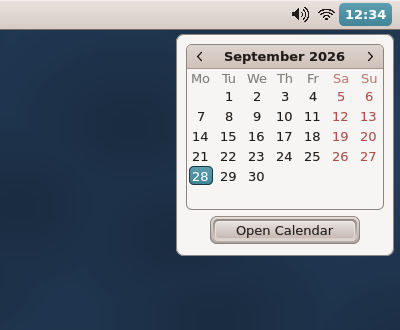
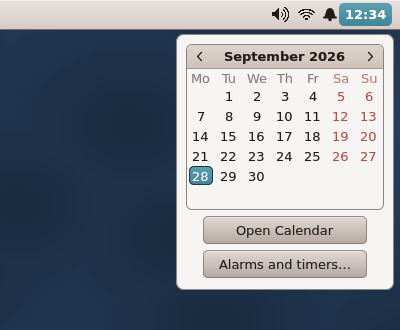
AutoDev round 6: S1 — the menu bar's bell and Alarms and timers… (the menu bar translated, English and French)
Claude-Session: https://claude.ai/code/session_01DvjGxTXhJuNry8i8kyXruM

Changed region(s): [[0.42, 0.6364, 0.99, 0.8788], [0.66, 0.0303, 0.84, 0.0606]]

diff --git a/user/Apps/menubar/main.cpp b/user/Apps/menubar/main.cpp
@@ -23,7 +23,13 @@
 // the File Viewer; "Disks..." opens the Disks app. The bar also says what happened through notifyd:
 // a stick connected, one that can be removed safely, one pulled out without an eject.
 //
-// A click on the time opens a calendar (the month; "Open Calendar" starts the Calendar app).
+// A click on the time opens a calendar (the month; "Open Calendar" starts the Calendar app; "Alarms and timers..."
+// opens the Clock on its Alarms tab -- when the Clock is on the card). A small bell left of the time says an alarm of
+// the Clock rings within 24 hours (SD:/apps/clock.app/alarms.txt read once a minute, through the Clock's own model,
+// Apps/clock/alarms.cpp -- AutoDev round 6, S1); a click on it opens the Clock's Alarms too.
+//
+// Its words are in the system's language (uikit/lang.h: TR, SD:/apps/menubar.app/lang/<code>.txt); the apps' names
+// and the windows' titles are theirs.
 //
 // The look: the modernised CDE (uikit/paint.h) -- a light bar in the theme's menu bar colour, the open title
 // in the accent, rounded drop-downs, anti-aliased on what lies below.
@@ -37,10 +43,13 @@
 // another title to switch, click an item to run it; press on a title + release on an
 // item works too.
 //
+#include <stdio.h>
 #include "appkit/appkit.h"
 #include "fontkit/uikitface.h"
 #include "uikit/uikit.h"
 #include "systemkit/systemkit.h"
+#include "Apps/clock/alarms.h"
+#include "Apps/clock/clocktime.h"
 
 using namespace uikit;
 
@@ -174,7 +183,7 @@ static void add_quit_menu (const char *app)
 	MenuDef &m = g_menus[g_nmenus++];
 	scopy (m.title, app, sizeof m.title); m.count = 0;
 	Item &q = m.items[m.count++];
-	q.id = MENU_QUIT; scopy (q.label, "Quit", sizeof q.label); scopy (q.key, "^Q", sizeof q.key); q.sep = false; q.sub = -1;
+	q.id = MENU_QUIT; scopy (q.label, TR ("Quit"), sizeof q.label); scopy (q.key, "^Q", sizeof q.key); q.sep = false; q.sub = -1;
 }
 
 // The system menu, always first: tools, the apps by category, the open windows, the end.
@@ -189,12 +198,14 @@ static void build_onyx_menu (MenuDef &m)
 		x.id = id; x.sep = id == -2; x.key[0] = '\0'; x.sub = sub;
 		scopy (x.label, l ? l : "", sizeof x.label);
 	};
-	add (ONYX_TERMINAL, "Terminal", -1); add (ONYX_CONTROL, "Control Panel", -1);
-	add (ONYX_FILES, "File Viewer", -1); add (ONYX_TASKS, "Task Manager", -1);
+	add (ONYX_TERMINAL, TR ("Terminal"), -1); add (ONYX_CONTROL, TR ("Control Panel"), -1);
+	add (ONYX_FILES, TR ("File Viewer"), -1); add (ONYX_TASKS, TR ("Task Manager"), -1);
 	add (-2, 0, -1);
 	// the categories: the usual ones first, then any other, "Other" last
 	g_nsubs = 0;
-	static const char *const order[] = { "Productivity", "Internet", "Graphics", "Programming", "Games", "BASIC", "Demos", "System", 0 };
+	static const char *const order[] = { TRN ("Productivity"), TRN ("Internet"), TRN ("Graphics"), TRN ("Programming"), TRN ("Games"), TRN ("BASIC"), TRN ("Demos"), TRN ("System"), 0 };
+	// TR: Other
+	// TR: Multimedia
 	char cats[MAXSUBS][20]; int nc = 0;
 	for (int i = 0; order[i]; i++) scopy (cats[nc++], order[i], 20);
 	for (int a = 0; a < g_napps && nc < MAXSUBS - 2; a++)
@@ -208,13 +219,13 @@ static void build_onyx_menu (MenuDef &m)
 	{
 		SubDef &sd = g_subs[g_nsubs]; sd.count = 0; sd.windows = false;
 		for (int a = 0; a < g_napps; a++) if (eq (g_apps[a].cat, cats[c])) sub_add (sd, g_apps[a].label, g_apps[a].name);
-		if (sd.count) add (ONYX_SUB, cats[c], g_nsubs++);
+		if (sd.count) add (ONYX_SUB, TR (cats[c]), g_nsubs++);	// (the category's name shown in the language; app.txt's kept)
 	}
 	add (-2, 0, -1);
 	SubDef &w = g_subs[g_nsubs]; w.count = 0; w.windows = true;
-	add (ONYX_SUB, "Open Windows", g_nsubs++);
+	add (ONYX_SUB, TR ("Open Windows"), g_nsubs++);
 	add (-2, 0, -1);
-	add (ONYX_SHUTDOWN, "Shut Down...", -1);
+	add (ONYX_SHUTDOWN, TR ("Shut Down..."), -1);
 }
 static void add_onyx_menu (void) { build_onyx_menu (g_menus[g_nmenus++]); }
 
@@ -295,7 +306,7 @@ static int sub_w (const SubDef &sd)
 {
 	int w = 140;
 	for (int i = 0; i < sd.count; i++) { int ww = uk_tw (sd.items[i].label) + 28; if (ww > w) w = ww; }
-	if (sd.count == 0) w = uk_tw ("(no open window)") + 28;
+	if (sd.count == 0) w = uk_tw (sd.windows ? TR ("(no open window)") : TR ("(empty)")) + 28;
 	return w;
 }
 static int sub_h (const SubDef &sd) { return 10 + (sd.count ? sd.count : 1) * (g_fh + 8); }
@@ -333,7 +344,8 @@ static int title_at (int x, int y)
 static int clk_w (void) { return uk_tw ("00:00", 2); }
 static int clk_x (void) { return g_sw - clk_w () - 14; }
 static bool on_clock (int x, int y) { return y >= 0 && y < BAR_H && x >= clk_x () - 6 && x < g_sw; }
-static int wifi_x (void) { return clk_x () - 27; }
+static int bell_w (void);
+static int wifi_x (void) { return clk_x () - 27 - bell_w (); }
 static int spk_x (void) { return wifi_x () - 26; }
 static bool on_wifi (int x, int y) { return y >= 0 && y < BAR_H && x >= wifi_x () - 3 && x < wifi_x () + 20; }
 static bool on_speaker (int x, int y) { return y >= 0 && y < BAR_H && x >= spk_x () - 3 && x < spk_x () + 19; }
@@ -430,18 +442,17 @@ static void draw_volume_box (void)
 {
 	int bx, by; vol_box (&bx, &by);
 	panel (bx, by, VW, VH);
-	uk_text_l (g_cv, bx + 14, by + 6, 24, "Volume", C_FIELD_TEXT, 2);
-	char v[8]; int n = 0;
-	if (g_mute) { const char *m = "Muted"; while (m[n]) { v[n] = m[n]; n++; } }
-	else { if (g_vol >= 10) { v[n++] = '1'; v[n++] = '0'; } else v[n++] = (char) ('0' + g_vol); }
-	v[n] = 0;
+	uk_text_l (g_cv, bx + 14, by + 6, 24, TR ("Volume"), C_FIELD_TEXT, 2);
+	char v[40]; int n = 0;
+	if (g_mute) scopy (v, TR ("Muted"), sizeof v);
+	else { if (g_vol >= 10) { v[n++] = '1'; v[n++] = '0'; } else v[n++] = (char) ('0' + g_vol); v[n] = 0; }
 	uk_text_l (g_cv, bx + VW - 14 - uk_tw (v), by + 6, 24, v, C_DIM);
 	int x0, x1, ty; vol_track (&x0, &x1, &ty);
 	int kx = x0 + (x1 - x0) * g_vol / 10;
 	for (int i = 0; i <= 10; i++) g_cv.fillRect (x0 + (x1 - x0) * i / 10, ty + 10, 1, 3, C_DIM);
 	uk_slider_mark (g_cv, x0 - 6, ty - 8, x1 - x0 + 12, 20, kx - x0 + 6, kx - 6, 12, g_mute ? UK_DISABLED : g_volDrag ? UK_PRESSED : UK_NORMAL);
 	uk_check_mark (g_cv, bx + 18, by + 65, 15, g_mute != 0, UK_NORMAL);
-	uk_text_l (g_cv, bx + 42, by + 65, 15, "Mute", C_FIELD_TEXT);
+	uk_text_l (g_cv, bx + 42, by + 65, 15, TR ("Mute"), C_FIELD_TEXT);
 }
 
 // ---- the calendar (a click on the time) ----------------------------------------------------------
@@ -452,27 +463,76 @@ public:
 	unsigned bgColor () override { return C_DROP; }
 };
 static CalCard *g_cal;
-static bool g_calOpen = false, g_calBtnHot = false, g_calBtnDown = false;
+static bool g_calOpen = false;
+static int g_calBtnHot = 0, g_calBtnDown = 0;		// the button pointed at / pressed: 1 Open Calendar, 2 Alarms and timers
+static bool g_calClock = false;				// the Clock is on the card: its button shown (read as the calendar opens)
 #define CALW	(CAL_W + 20)
-#define CALH	(CAL_H + 20 + 36)
+static int cal_h (void) { return CAL_H + 20 + 36 + (g_calClock ? 34 : 0); }
 static void cal_box (int *x, int *y) { *x = g_sw - CALW - 6; *y = BAR_H + 4; }
-static void cal_btn (int *x, int *y, int *w, int *h)
+static void cal_btn (int i, int *x, int *y, int *w, int *h)	// i: 1 Open Calendar, 2 Alarms and timers (under it)
 {
 	int bx, by; cal_box (&bx, &by);
-	*w = 150; *h = 28; *x = bx + (CALW - *w) / 2; *y = by + 10 + CAL_H + 6;
+	int tw = uk_tw (TR ("Open Calendar"));
+	if (g_calClock && uk_tw (TR ("Alarms and timers\xE2\x80\xA6")) > tw) tw = uk_tw (TR ("Alarms and timers\xE2\x80\xA6"));
+	*w = tw + 32 < 150 ? 150 : tw + 32 > CAL_W ? CAL_W : tw + 32; *h = 28;
+	*x = bx + (CALW - *w) / 2; *y = by + 10 + CAL_H + 6 + (i == 2 ? 34 : 0);
 }
-static bool in_cal_box (int x, int y) { int bx, by; cal_box (&bx, &by); return x >= bx && x < bx + CALW && y >= by && y < by + CALH; }
-static bool on_cal_btn (int x, int y) { int bx, by, bw, bh; cal_btn (&bx, &by, &bw, &bh); return x >= bx && x < bx + bw && y >= by && y < by + bh; }
+static bool in_cal_box (int x, int y) { int bx, by; cal_box (&bx, &by); return x >= bx && x < bx + CALW && y >= by && y < by + cal_h (); }
+static int on_cal_btn (int x, int y)			// -> 1, 2, 0 none
+{
+	for (int i = 1; i <= (g_calClock ? 2 : 1); i++)
+	{
+		int bx, by, bw, bh; cal_btn (i, &bx, &by, &bw, &bh);
+		if (x >= bx && x < bx + bw && y >= by && y < by + bh) return i;
+	}
+	return 0;
+}
 
 static void draw_calendar_box (void)
 {
 	int bx, by; cal_box (&bx, &by);
-	panel (bx, by, CALW, CALH);
+	panel (bx, by, CALW, cal_h ());
 	g_cal->draw ();
 	g_cv.putOther (g_cal->canvas, bx + 10, by + 10, false);
-	int x, y, w, h, lx, ly, lw, lh; cal_btn (&x, &y, &w, &h);
-	uk_framed (g_cv, x, y, w, h, C_BUTTON, g_calBtnDown ? UK_PRESSED : g_calBtnHot ? UK_HOT : UK_NORMAL, &lx, &ly, &lw, &lh);
-	uk_text_c (g_cv, lx, ly, lw, lh, "Open Calendar", C_BUTTON_TEXT);
+	for (int i = 1; i <= (g_calClock ? 2 : 1); i++)
+	{
+		int x, y, w, h, lx, ly, lw, lh; cal_btn (i, &x, &y, &w, &h);
+		uk_framed (g_cv, x, y, w, h, C_BUTTON, g_calBtnDown == i ? UK_PRESSED : g_calBtnHot == i ? UK_HOT : UK_NORMAL, &lx, &ly, &lw, &lh);
+		uk_text_c (g_cv, lx, ly, lw, lh, i == 1 ? TR ("Open Calendar") : TR ("Alarms and timers\xE2\x80\xA6"), C_BUTTON_TEXT);
+	}
+}
+static void open_clock_alarms (void) { lx_launch ("clock", "alarms"); }	// (a Clock running: told, and raised)
+
+// ---- the bell: an alarm of the Clock within 24 hours (S1) ------------------------------------------------------------
+static AlarmSet g_alarms;
+static bool g_bell = false;				// shown (left of the time)
+static void bell_poll (void)				// alarms.txt read again: once a minute, and when the calendar opens
+{
+	int y = 0, mo = 0, d = 0, h = 0, mi = 0;
+	bool real = kapi_get_datetime (&y, &mo, &d, &h, &mi, 0) == 1;
+	bool was = g_bell;
+	g_bell = false;
+	if (real && alarms_load (g_alarms, ALARMS_PATH) > 0)
+	{
+		long now = clk_minute (y, mo, d, h, mi), next = alarms_next (g_alarms, now, 0);
+		g_bell = next >= 0 && next - now <= 1440;
+	}
+	alarms_free (g_alarms);
+	if (g_bell != was) g_dirty = true;
+}
+static int bell_w (void) { return g_bell ? 20 : 0; }
+static int bell_x (void) { return clk_x () - 6 - 16; }
+static bool on_bell (int x, int y) { return g_bell && y >= 0 && y < BAR_H && x >= bell_x () - 2 && x < clk_x () - 6; }
+// A bell, 14 x 14 px at (x, y): its dome, its rim, its clapper (VPath, 1/16 px)
+static void draw_bell (int x, int y, unsigned c)
+{
+	VPath p;
+	p.circle (V (x + 7), V (y + 5), V (4));
+	int body[8] = { V (x + 3), V (y + 5), V (x + 11), V (y + 5), V (x + 12) + 8, V (y + 10), V (x + 1) + 8, V (y + 10) };
+	p.poly (body, 4);
+	p.rrect (V (x), V (y + 9) + 8, V (14), V (2), V (1));
+	p.circle (V (x + 7), V (y + 12) + 8, V (1) + 12);
+	p.fill (g_cv, c);
 }
 
 // ---- the USB sticks (kapi v93) ---------------------------------------------------------------------
@@ -552,31 +612,28 @@ static void usb_poll (void)
 		g_seen[k].gen = v.gen;
 		g_dirty = true;
 		char vn[12]; vname (v, vn);
-		char msg[160]; msg[0] = 0;
+		char msg[320]; msg[0] = 0;
 		char act[48]; act[0] = 0;
 		switch (v.state)
 		{
 		case KAPI_VST_MOUNTED:
 		{
 			char sz[24]; size_text (v.total, sz, sizeof sz);
-			cat (msg, sizeof msg, v.label[0] ? v.label : "A USB stick"); cat (msg, sizeof msg, " is connected as ");
-			cat (msg, sizeof msg, vn); cat (msg, sizeof msg, " ("); cat (msg, sizeof msg, sz); cat (msg, sizeof msg, ", ");
-			cat (msg, sizeof msg, v.type); cat (msg, sizeof msg, "). Click to open it.");
+			snprintf (msg, sizeof msg, TR ("%s is connected as %s (%s, %s). Click to open it."), v.label[0] ? v.label : TR ("A USB stick"), vn, sz, v.type);
 			cat (act, sizeof act, "fileviewer "); cat (act, sizeof act, vn); cat (act, sizeof act, "/");
 			break;
 		}
 		case KAPI_VST_EJECTED:
-			cat (msg, sizeof msg, vn); cat (msg, sizeof msg, " can be removed safely.");
+			snprintf (msg, sizeof msg, TR ("%s can be removed safely."), vn);
 			break;
 		case KAPI_VST_UNREADABLE:
-			cat (msg, sizeof msg, vn); cat (msg, sizeof msg, (v.flags & KAPI_VF_IOERR) ? " could not be read." : " has no FAT / exFAT file system. Click to format it.");
+			snprintf (msg, sizeof msg, (v.flags & KAPI_VF_IOERR) ? TR ("%s could not be read.") : TR ("%s has no FAT / exFAT file system. Click to format it."), vn);
 			if (!(v.flags & KAPI_VF_IOERR)) { cat (act, sizeof act, "disks "); cat (act, sizeof act, vn); }
 			break;
 		case KAPI_VST_REMOVED:
 			if (v.flags & KAPI_VF_UNSAFE)
 			{
-				cat (msg, sizeof msg, vn);
-				cat (msg, sizeof msg, " was removed without being ejected: what was being written to it may be lost.");
+				snprintf (msg, sizeof msg, TR ("%s was removed without being ejected: what was being written to it may be lost."), vn);
 			}
 			break;
 		}
@@ -664,28 +721,28 @@ static void draw_usb_box (void)
 		int ry = by + 5 + r * UROW;
 		if (r == g_usbHot) uk_hilite (g_cv, bx + 4, ry + 2, UW - 8 - 96, UROW - 4, 5, true);
 		char vn[12]; vname (v, vn);
-		char line[64]; line[0] = 0;
-		cat (line, sizeof line, vn); cat (line, sizeof line, "  "); cat (line, sizeof line, v.label[0] ? v.label : "USB stick");
+		char line[96]; line[0] = 0;
+		cat (line, sizeof line, vn); cat (line, sizeof line, "  "); cat (line, sizeof line, v.label[0] ? v.label : TR ("USB stick"));
 		unsigned ink = r == g_usbHot ? C_SEL_TEXT : C_FIELD_TEXT, dim = r == g_usbHot ? C_SEL_TEXT : C_DIM;
 		uk_text_l (g_cv, bx + 14, ry + 4, g_fh + 2, line, ink, 2);
-		char sub[80]; sub[0] = 0;
+		char sub[160]; sub[0] = 0;
 		if (v.state == KAPI_VST_MOUNTED)
 		{
 			char sz[24]; size_text (v.total, sz, sizeof sz);
 			cat (sub, sizeof sub, sz); cat (sub, sizeof sub, " "); cat (sub, sizeof sub, v.type);
-			if (r == g_usbBusy) cat (sub, sizeof sub, " - in use: Eject again to force");
+			if (r == g_usbBusy) { cat (sub, sizeof sub, " - "); cat (sub, sizeof sub, TR ("in use: Eject again to force")); }
 		}
-		else if (v.state == KAPI_VST_EJECTED) cat (sub, sizeof sub, "Ejected: it can be removed");
-		else cat (sub, sizeof sub, (v.flags & KAPI_VF_IOERR) ? "Cannot be read" : "Not formatted");
+		else if (v.state == KAPI_VST_EJECTED) cat (sub, sizeof sub, TR ("Ejected: it can be removed"));
+		else cat (sub, sizeof sub, (v.flags & KAPI_VF_IOERR) ? TR ("Cannot be read") : TR ("Not formatted"));
 		uk_text_l (g_cv, bx + 14, ry + 6 + g_fh, g_fh + 2, sub, dim);
 		if (!usb_has_btn (r)) continue;
 		int x, y, w, h, lx, ly, lw, lh; usb_btn (r, &x, &y, &w, &h);
 		uk_framed (g_cv, x, y, w, h, C_BUTTON, g_usbBtnDown == r ? UK_PRESSED : UK_NORMAL, &lx, &ly, &lw, &lh);
-		uk_text_c (g_cv, lx, ly, lw, lh, v.state == KAPI_VST_MOUNTED ? "Eject" : v.state == KAPI_VST_EJECTED ? "Mount" : "Format...", C_BUTTON_TEXT);
+		uk_text_c (g_cv, lx, ly, lw, lh, v.state == KAPI_VST_MOUNTED ? TR ("Eject") : v.state == KAPI_VST_EJECTED ? TR ("Mount") : TR ("Format..."), C_BUTTON_TEXT);
 	}
 	int x, y, w, h, lx, ly, lw, lh; usb_foot (&x, &y, &w, &h);
 	uk_framed (g_cv, x, y, w, h, C_BUTTON, g_usbFootHot ? UK_HOT : UK_NORMAL, &lx, &ly, &lw, &lh);
-	uk_text_c (g_cv, lx, ly, lw, lh, "Disks...", C_BUTTON_TEXT);
+	uk_text_c (g_cv, lx, ly, lw, lh, TR ("Disks..."), C_BUTTON_TEXT);
 }
 
 static void usb_action (int row)		// the row's button
@@ -699,11 +756,11 @@ static void usb_action (int row)		// the row's button
 		int r = kapi_vol_eject (vn, g_usbBusy == row ? KAPI_EJECT_FORCE : 0);
 		if (r == -KAPI_EBUSY) { g_usbBusy = row; g_dirty = true; return; }
 		g_usbBusy = -1;
-		if (r != 0) notify ("USB", "The stick could not be ejected.");
+		if (r != 0) notify ("USB", TR ("The stick could not be ejected."));
 	}
 	else if (v.state == KAPI_VST_EJECTED)
 	{
-		if (kapi_vol_mount (vn) != 0) notify ("USB", "The stick could not be mounted again.");
+		if (kapi_vol_mount (vn) != 0) notify ("USB", TR ("The stick could not be mounted again."));
 	}
 	else
 	{
@@ -739,6 +796,7 @@ static void draw (void)
 	int clkX = clk_x ();
 	if (g_calOpen) uk_hilite (g_cv, clkX - 6, 3, clk_w () + 12, BAR_H - 7, 5, true);
 	uk_text_l (g_cv, clkX, 0, BAR_H - 1, clk, g_calOpen ? C_SEL_TEXT : C_BARTXT, 2);
+	if (g_bell) draw_bell (bell_x (), (BAR_H - 1 - 14) / 2, C_BARTXT);
 	g_lastMin = mm;
 	if (g_wifi < 0) g_wifi = kapi_net_status (0, 0) ? 1 : 0;
 	draw_wifi (wifi_x (), (BAR_H - 1 - 12) / 2, g_wifi == 1);
@@ -785,7 +843,7 @@ static void draw (void)
 			int sx, sy, sw, sh; sub_rect (&sx, &sy, &sw, &sh);
 			panel (sx, sy, sw, sh);
 			int ih = g_fh + 8;
-			if (sd.count == 0) uk_text_l (g_cv, sx + 14, sy + 5, ih, sd.windows ? "(no open window)" : "(empty)", C_DIM);
+			if (sd.count == 0) uk_text_l (g_cv, sx + 14, sy + 5, ih, sd.windows ? TR ("(no open window)") : TR ("(empty)"), C_DIM);
 			for (int i = 0; i < sd.count; i++)
 			{
 				int iy = sy + 5 + i * ih;
@@ -880,7 +938,7 @@ static void ptr (unsigned long, int ev, long v)
 		if (g_calOpen && in_cal_box (x, y))			// the calendar: its month, its button
 		{
 			int bx, by; cal_box (&bx, &by);
-			if (on_cal_btn (x, y)) g_calBtnDown = true;
+			if (on_cal_btn (x, y)) g_calBtnDown = on_cal_btn (x, y);
 			else g_cal->handleMouse (x - bx - 10, y - by - 10, 1, 0, 0, 0);
 			g_dirty = true;
 			break;
@@ -890,11 +948,21 @@ static void ptr (unsigned long, int ev, long v)
 			if (g_open >= 0) close_menu ();
 			g_volOpen = false;
 			g_calOpen = !g_calOpen; g_dirty = true;
-			if (g_calOpen)					// (today's month)
+			if (g_calOpen)					// (today's month; the Clock's button when it is there)
 			{
 				int yy = 2026, mo = 1, dd = 1; kapi_get_datetime (&yy, &mo, &dd, 0, 0, 0);
 				g_cal->setDate (yy, mo, dd);
+				char p[80]; ax_app_path (p, sizeof p, "clock", ".app/app.txt");
+				g_calClock = lx_exists (p) != 0;
+				bell_poll ();
 			}
+			break;
+		}
+		if (on_bell (x, y))					// the bell: the Clock's alarms
+		{
+			if (g_open >= 0) close_menu ();
+			g_volOpen = false; g_calOpen = false; g_usbOpen = false; g_dirty = true;
+			open_clock_alarms ();
 			break;
 		}
 		if (g_calOpen) { g_calOpen = false; g_dirty = true; if (t < 0) break; }	// a click elsewhere
@@ -959,8 +1027,14 @@ static void ptr (unsigned long, int ev, long v)
 			int bx, by; cal_box (&bx, &by);
 			if (g_calBtnDown)
 			{
-				g_calBtnDown = false;
-				if (on_cal_btn (x, y)) { g_calOpen = false; if (kapi_raise_app ("calendar") == 0) lx_launch ("calendar", 0); }
+				int b = g_calBtnDown;
+				g_calBtnDown = 0;
+				if (on_cal_btn (x, y) == b)
+				{
+					g_calOpen = false;
+					if (b == 2) open_clock_alarms ();
+					else if (kapi_raise_app ("calendar") == 0) lx_launch ("calendar", 0);
+				}
 			}
 			else if (in_cal_box (x, y)) g_cal->handleMouse (x - bx - 10, y - by - 10, 0, 0, 0, 0);
 			g_dirty = true;
@@ -990,7 +1064,7 @@ static void ptr (unsigned long, int ev, long v)
 		}
 		if (g_calOpen)
 		{
-			bool h = on_cal_btn (x, y);
+			int h = on_cal_btn (x, y);
 			if (h != g_calBtnHot) { g_calBtnHot = h; g_dirty = true; }
 			break;
 		}
@@ -1044,11 +1118,14 @@ int main (void)
 	uikit::init ();					// the fonts, the theme: the palette
 	if (ft_uikit_install ("DejaVu Sans", 13))		// FreeType's anti-aliased text (else the bitmap font)
 		g_fh = uk_fh ();
+	uk_lang_init ();					// the words in the system's language (after the text face)
 	C_BARTXT = uk_ink_on (uk_tone (C_MENUBAR, 176));
 	C_BARDIM = uk_mix (uk_tone (C_MENUBAR, 176), C_BARTXT, 110);
 	C_DROP = C_FIELD; C_DIM = uk_mix (C_FIELD, C_FIELD_TEXT, 130); C_OUT = uk_tone (C_MENUBAR, 70);
 	{ int yy = 2026, mo = 1, dd = 1; kapi_get_datetime (&yy, &mo, &dd, 0, 0, 0); g_cal = new CalCard (yy, mo, dd); }
 	kapi_set_pointer_handler (ptr);
+	alarms_init (g_alarms);
+	bell_poll ();							// (the Clock's alarms: the bell)
 	volume_restore ();						// the saved volume (SD:/etc/sound.ini)
 	{ int r = kapi_sound_volume (-1, -1); g_vol = r & 0xFF; g_mute = (r & 0x100) ? 1 : 0; }
 
@@ -1080,7 +1157,7 @@ int main (void)
 		}
 		int hh = 0, mm = 0;
 		kapi_get_datetime (0, 0, 0, &hh, &mm, 0);
-		if (mm != g_lastMin) g_dirty = true;
+		if (mm != g_lastMin) { g_dirty = true; bell_poll (); }
 		static unsigned lastNet = 0, lastTray = 0;		// Wi-Fi state: about once a second
 		unsigned now = kapi_get_ticks ();
 		if (now - lastTray >= 25) { lastTray = now; if (tray_poll ()) g_dirty = true; }	// (v95) the programs' icons
